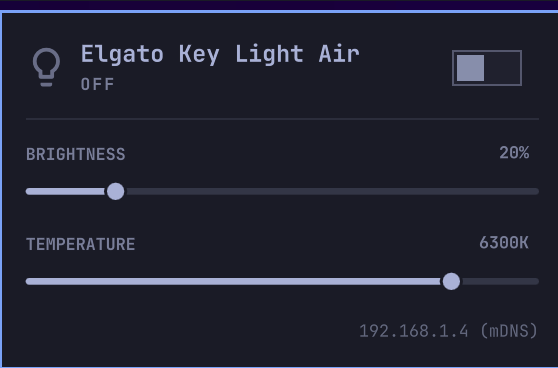
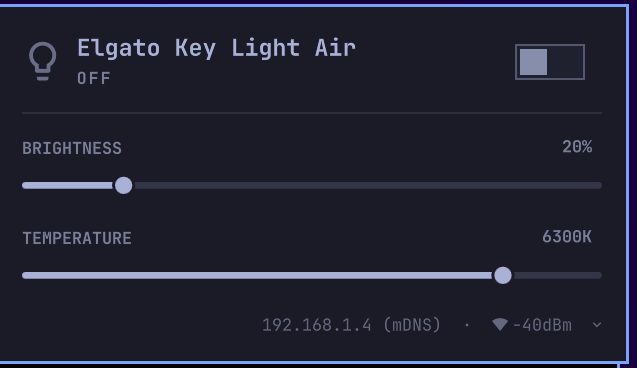
Refresh captures and document the Wi-Fi and details features

diff --git a/README.md b/README.md
@@ -3,7 +3,9 @@
 Control an Elgato Key Light Air from the Omarchy 4 bar: an icon that reads at
 a glance, and a panel with power, brightness, and color temperature.
 
-![The control panel, anchored to its bar icon](docs/panel.png)
+| The panel | Device details expanded |
+| --- | --- |
+| ![The control panel, anchored to its bar icon](docs/panel.png) | ![The panel with the device details section expanded](docs/panel-details.png) |
 
 ## What it does
 
@@ -24,6 +26,10 @@ a glance, and a panel with power, brightness, and color temperature.
   be pinned in the widget settings to skip discovery. If the light drops off
   the network, the panel offers a rescan and the background poll self-heals
   when it comes back.
+- **Wi-Fi signal at a glance** in the footer (strength glyph + dBm) — a weak
+  reading is the usual explanation for laggy control. Clicking the footer
+  expands a **device details** section: firmware, serial, MAC, and the
+  network the light is on.
 - Themed by the active Omarchy theme, like the first-party widgets.
 
 ## Install
